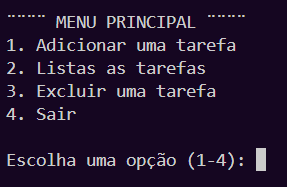
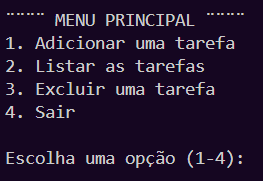
Fixed name 'listas' to 'listar' in todo_terminal.py

diff --git a/todo_list/todo_terminal.py b/todo_list/todo_terminal.py
@@ -6,7 +6,7 @@ todo_list = []
 def show_menu():
     print("\n¨¨¨¨ MENU PRINCIPAL ¨¨¨¨")
     print("1. Adicionar uma tarefa")
-    print("2. Listas as tarefas")
+    print("2. Listar as tarefas")
     print("3. Excluir uma tarefa")
     print("4. Sair")
 

diff --git a/CHANGELOG.md b/CHANGELOG.md
@@ -20,6 +20,7 @@ This project adheres to [Semantic Versioning](https://semver.org/).
 
 ### Fixed
 - "test_todo.py" -> fixed the import and name of function.
+- "listas" to -> "listar" in menu of "todo_terminal.py."
 
 ### Changed
 - Modified README.md, new instructions about tests, added version, new center title and logo; and fixed correct height of screenshots.
@@ -30,7 +31,7 @@ This project adheres to [Semantic Versioning](https://semver.org/).
 - Removed "-" to LICENSE.
 - Roved the Python files to "todo-list" folder.
 - Name of imports in all python files.
-- Modified name of python files in Readme
+- Modified name of python files in Readme and Contribuiting.
 
 ## [1.1.2] - 2025-07-23
 ### Added
